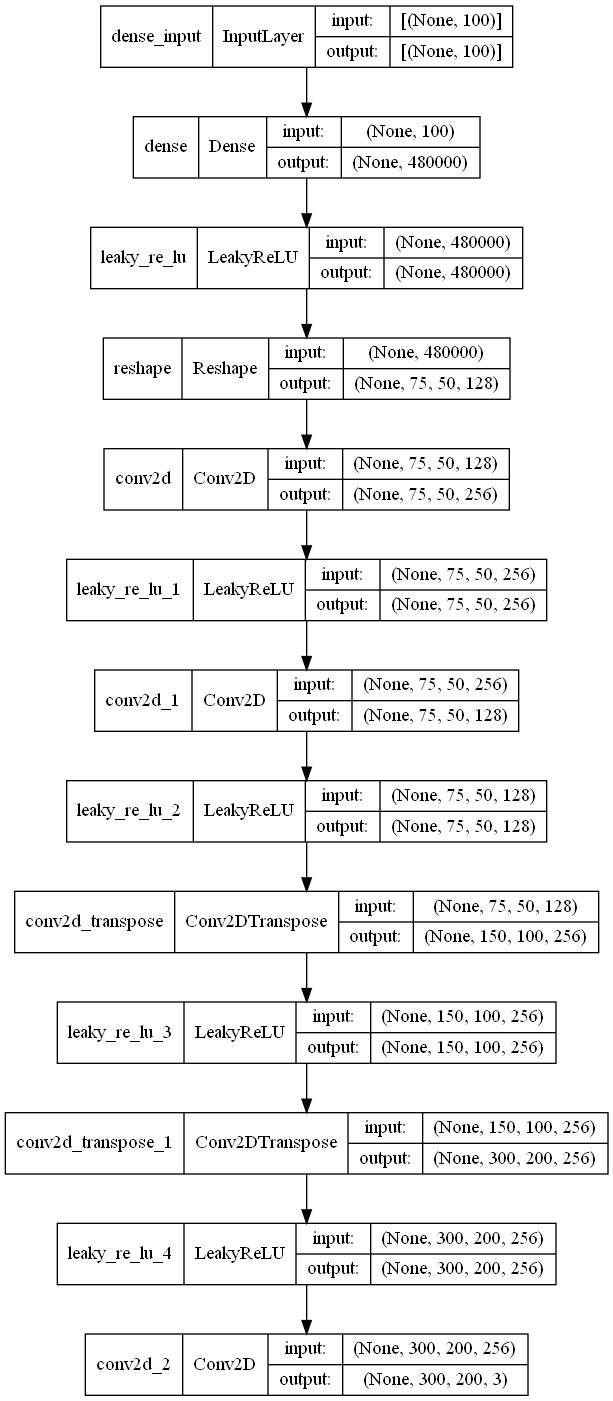
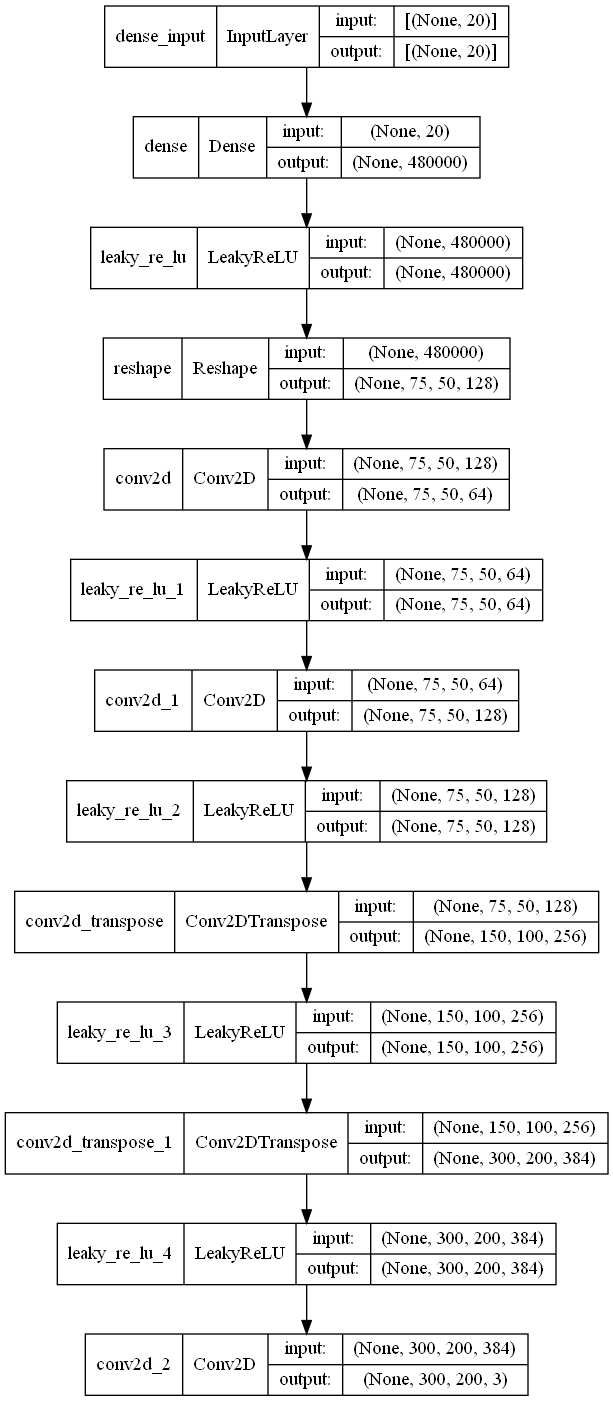
Intermediate results now generated from the same vector

diff --git a/gan/armorGAN.py b/gan/armorGAN.py
@@ -25,7 +25,7 @@ def define_generator(latent_dim, target_img_height, target_img_width, target_img
 	model.add(Dense(n_nodes, input_dim=latent_dim))
 	model.add(LeakyReLU(alpha=0.2))
 	model.add(Reshape((begin_h, begin_w, 128)))
-	model.add(Conv2D(256, (5,5), strides=(1, 1), padding="same"))
+	model.add(Conv2D(64, (5,5), strides=(1, 1), padding="same"))
 	model.add(LeakyReLU(alpha=0.2))
 	model.add(Conv2D(128, (5,5), strides=(1,1), padding="same"))
 	model.add(LeakyReLU(alpha=0.2))
@@ -33,7 +33,7 @@ def define_generator(latent_dim, target_img_height, target_img_width, target_img
 	model.add(Conv2DTranspose(256, (5,5), strides=(2,2), padding='same'))
 	model.add(LeakyReLU(alpha=0.2))
 	# upsample to the final img dimensions
-	model.add(Conv2DTranspose(256, (7,7), strides=(2,2), padding='same'))
+	model.add(Conv2DTranspose(384, (7,7), strides=(2,2), padding='same'))
 	model.add(LeakyReLU(alpha=0.2))
 	model.add(Conv2D(target_img_channels, (15,15), activation=c.GEN_ACT, padding='same'))
 	return model
@@ -47,19 +47,19 @@ def define_discriminator(in_shape=(600,400,1)):
 	model.add(Conv2D(512, (13,13), strides=(2, 2), padding='same', input_shape=in_shape))
 	model.add(LeakyReLU(alpha=0.2))
 	model.add(Dropout(0.2))
-	model.add(GaussianNoise(0.1))
+	#model.add(GaussianNoise(0.1))
 	model.add(Conv2D(256, (5,5), strides=(2, 2), padding='same'))
 	model.add(LeakyReLU(alpha=0.2))
 	model.add(Dropout(0.2))
-	model.add(GaussianNoise(0.1))
+	#model.add(GaussianNoise(0.1))
 	model.add(Conv2D(128, (5, 5), strides=(2, 2), padding='same'))
 	model.add(LeakyReLU(alpha=0.2))
 	model.add(Dropout(0.2))
-	model.add(GaussianNoise(0.1))
+	#model.add(GaussianNoise(0.1))
 	model.add(Conv2D(128, (3, 3), strides=(2, 2), padding='same'))
 	model.add(LeakyReLU(alpha=0.2))
 	model.add(Dropout(0.2))
-	model.add(GaussianNoise(0.1))
+	#model.add(GaussianNoise(0.1))
 	model.add(Conv2D(64, (3, 3), strides=(2, 2), padding='same'))
 	model.add(LeakyReLU(alpha=0.2))
 	model.add(Flatten())
@@ -200,7 +200,8 @@ def train(g_model, d_model, gan_model, dataset, latent_dim, n_epochs=100, n_batc
 			d_model.trainable = False
 
 		if c.INTERMEDIATE_RESULTS:
-			latent_points = generator.generate_latent_points(c.LATENT_DIM, 1)
+			latent_points = np.full((c.LATENT_DIM), 0.5)
+			latent_points = latent_points.reshape(1, c.LATENT_DIM)
 
 			X = g_model.predict(latent_points)
 			# plot the result

diff --git a/hparams/hparams.py b/hparams/hparams.py
@@ -8,7 +8,7 @@ class Config:
         self.IMG_WIDTH = 200
         self.MODE = cv2.IMREAD_COLOR
         self.IMG_CHANNELS = 3 if self.MODE == cv2.IMREAD_COLOR else 1
-        self.BATCH_SIZE = 8
+        self.BATCH_SIZE = 4
         self.EPOCHS = 10000
         self.LATENT_DIM = 20
         self.GEN_CHECKPOINT = 10
